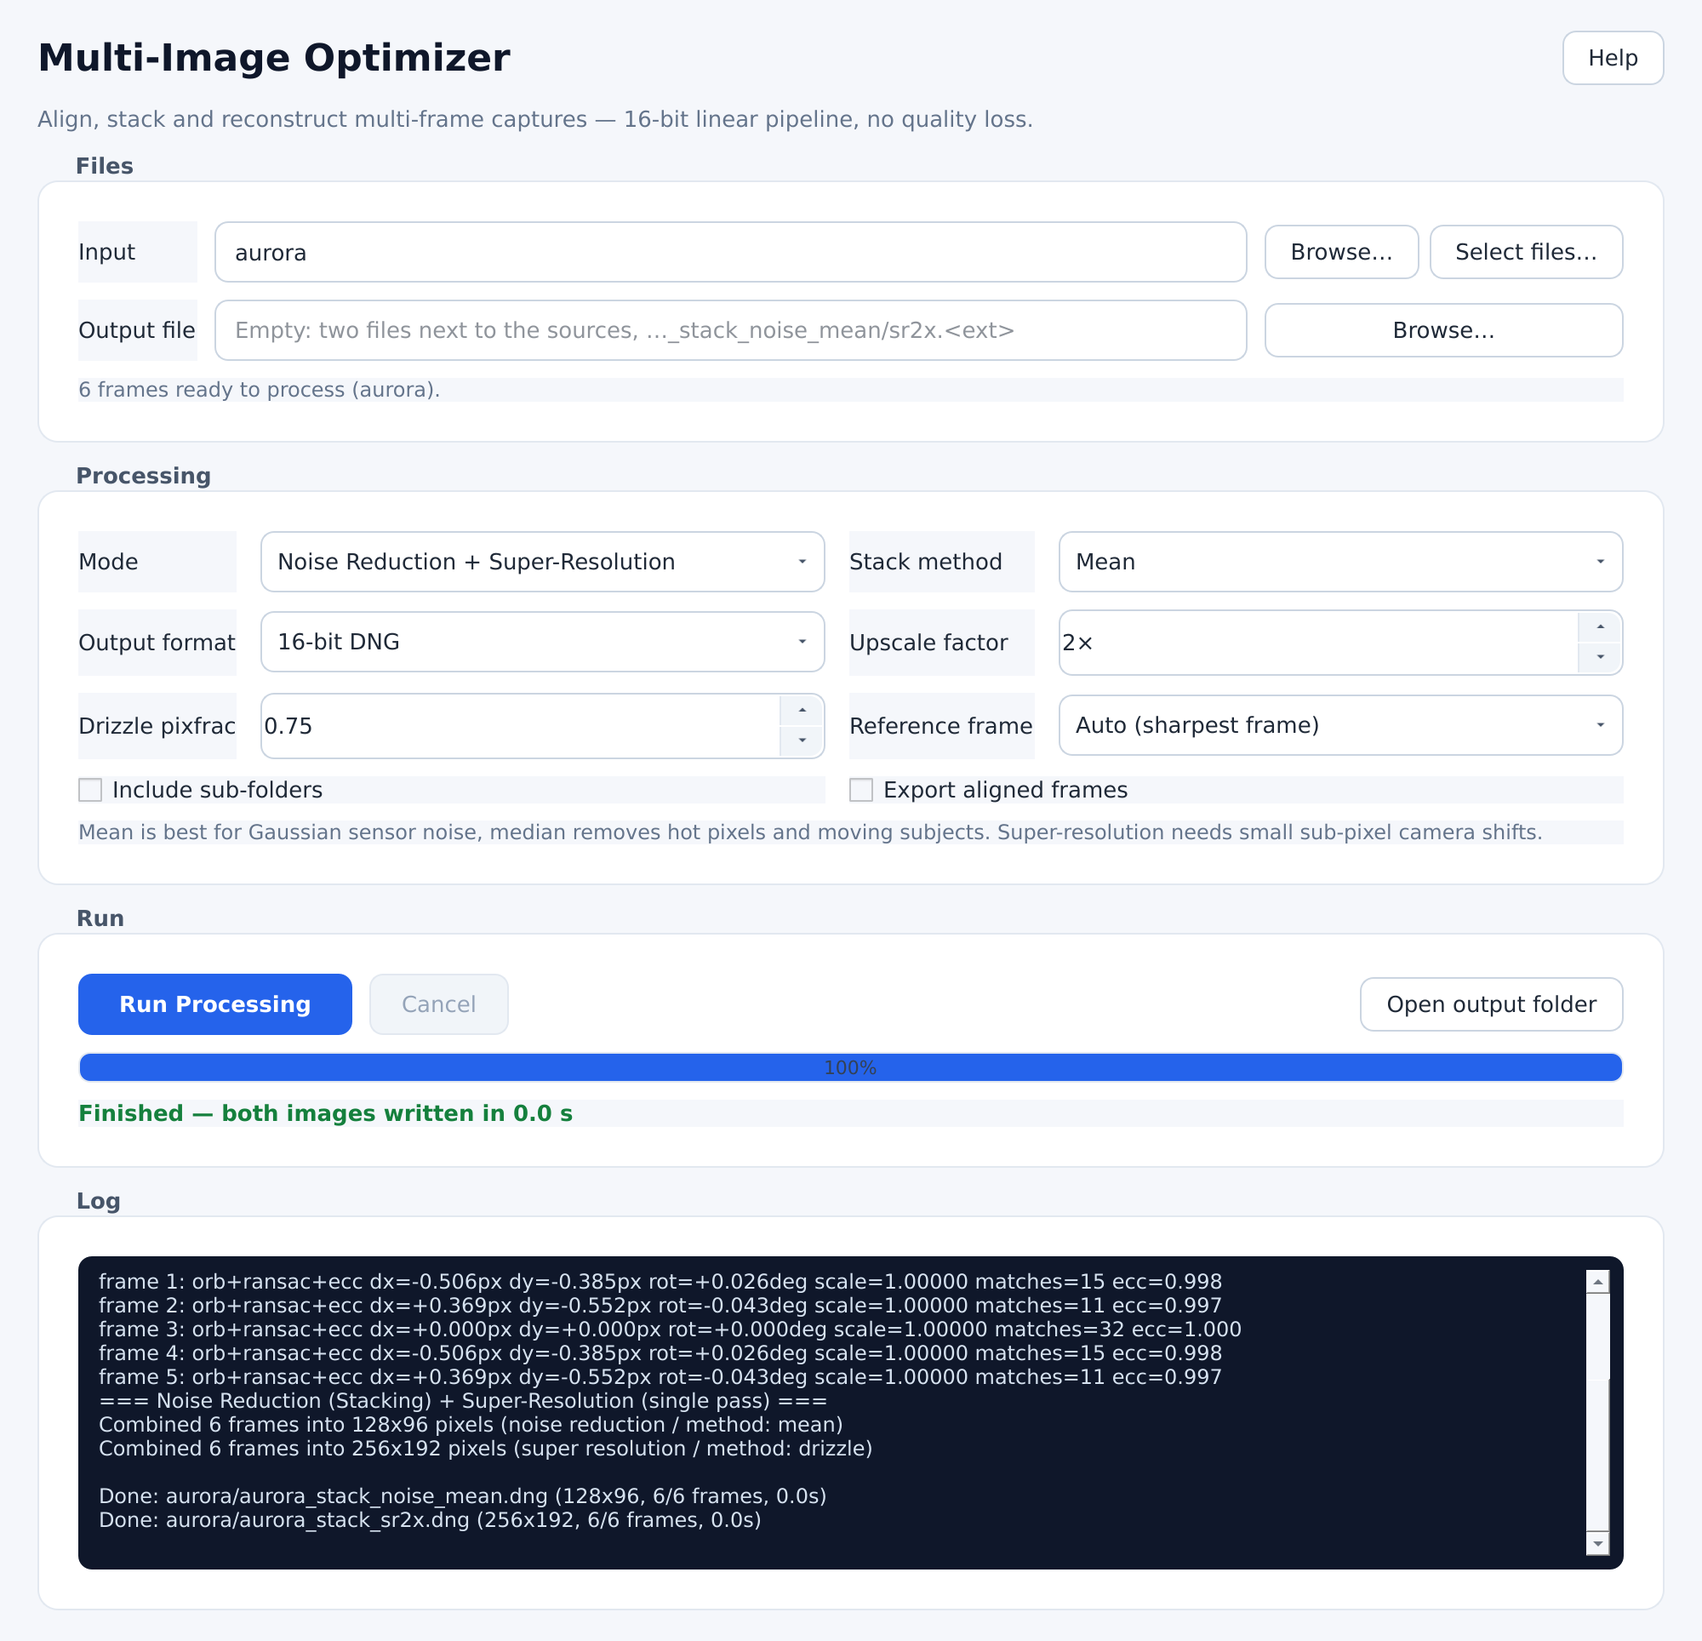
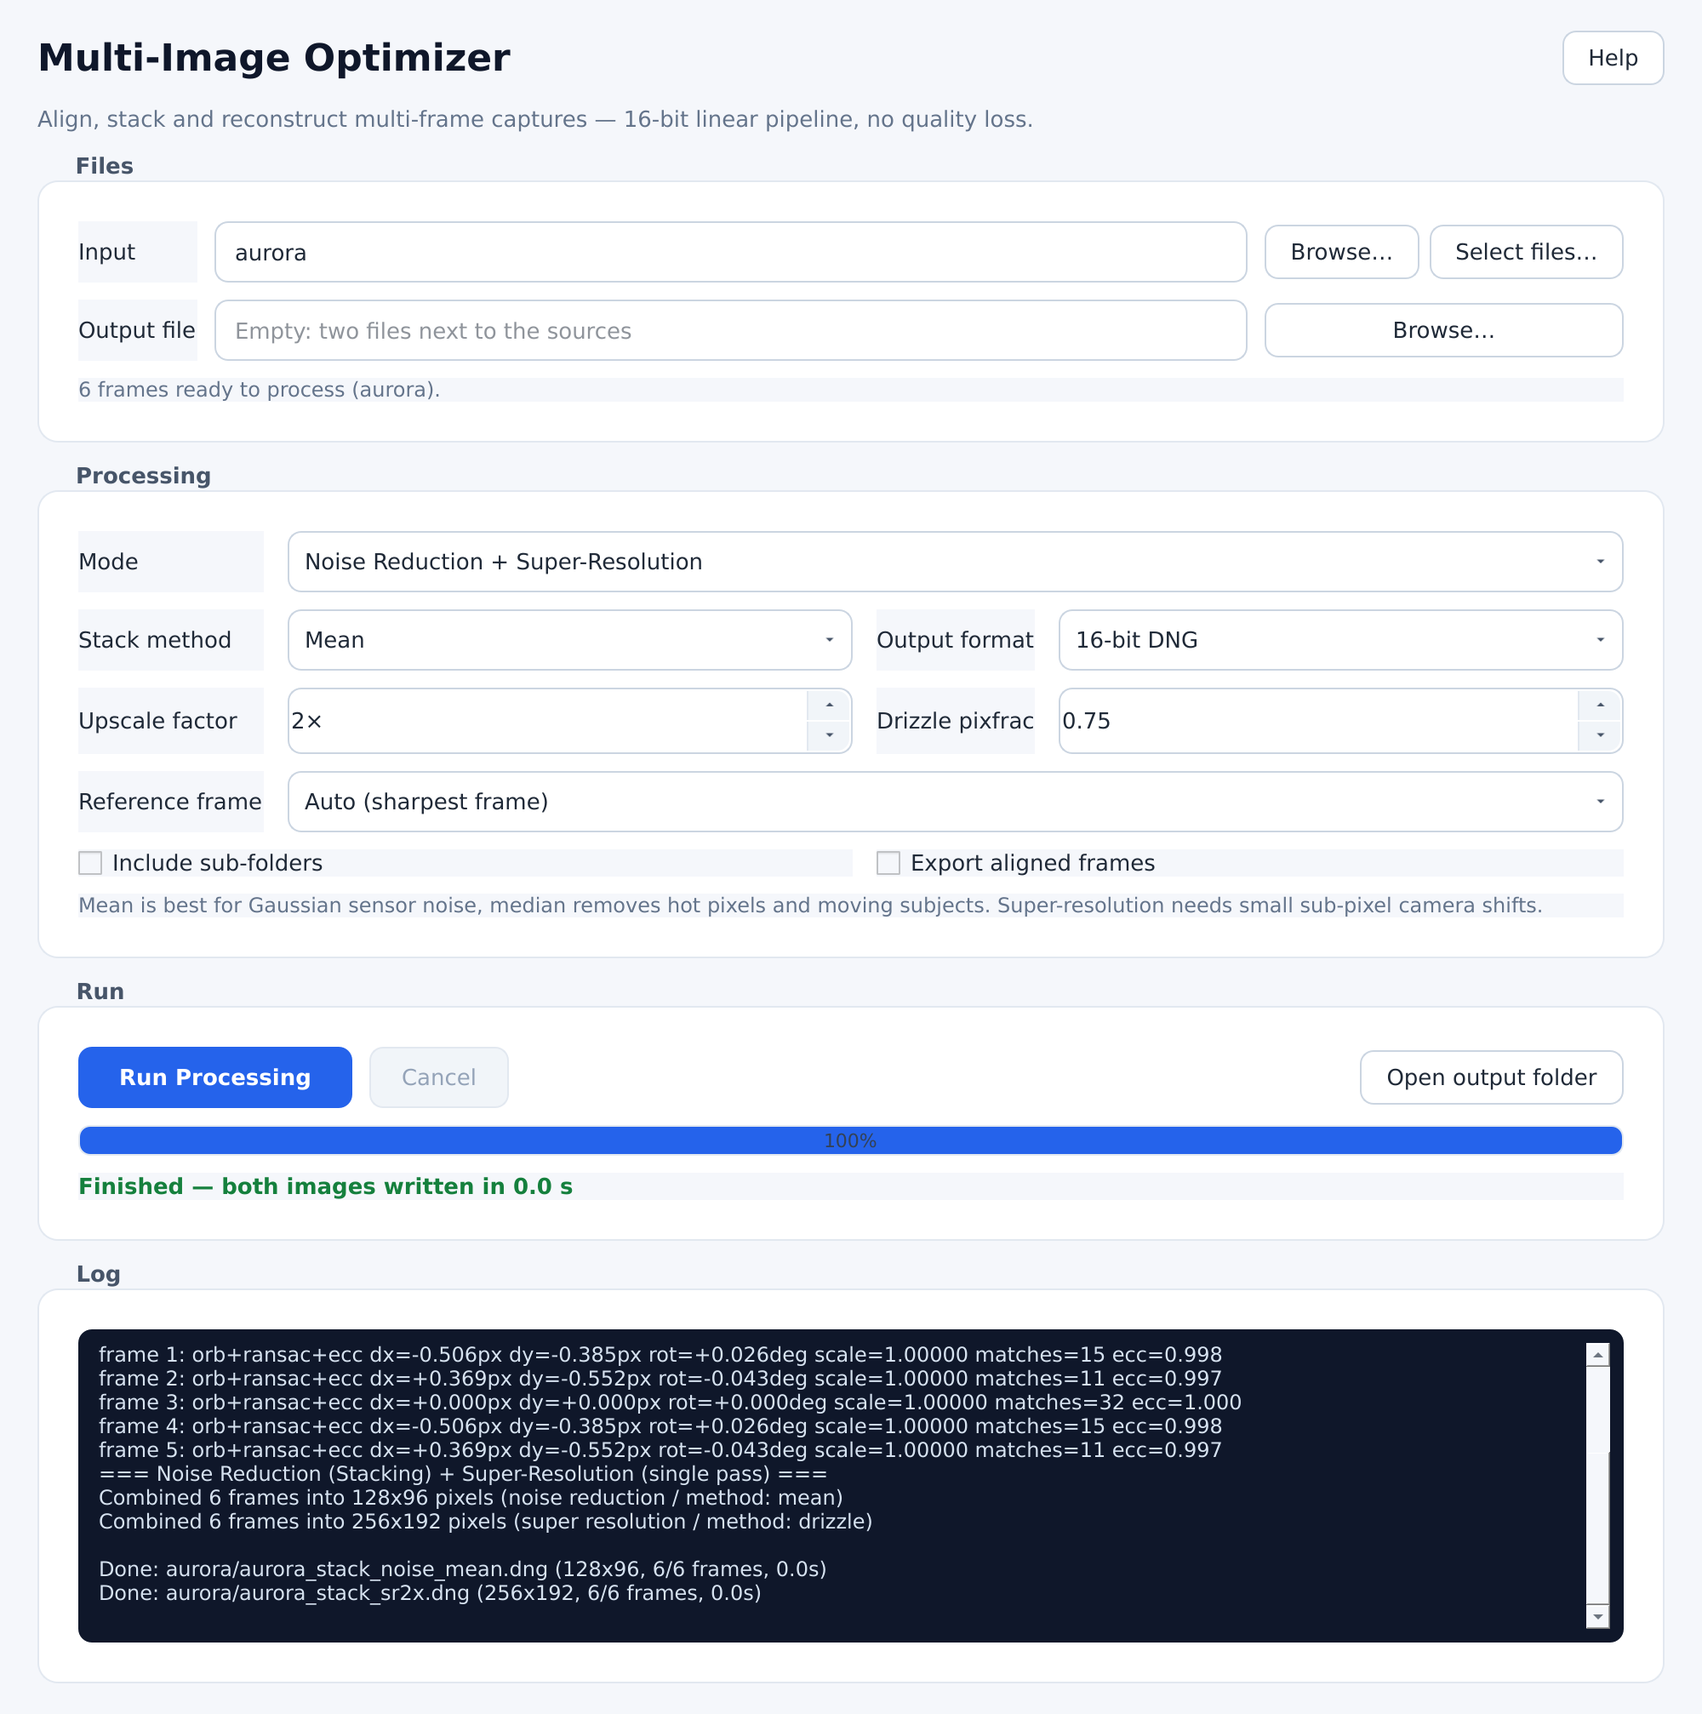
Keep GUI text readable at the minimum window size
Rework the processing grid into two columns with full-width mode and reference
rows, size combo boxes to their contents, and wrap the status and log. Add a
tooltip to every setting explaining its effect and when to use it, and document
the mode and stack-method trade-offs in the README.

diff --git a/src/gui.py b/src/gui.py
@@ -92,6 +92,76 @@ FORMAT_FILTERS = {
     "png": "PNG image (*.png)",
 }
 
+#: Tooltips for the settings.  They explain the effect and when to choose it,
+#: because the labels alone cannot carry the trade-offs.
+INPUT_TIP = (
+    "Folder with the source frames. Supported: DNG, CR2/CR3, NEF, ARW, RAF, "
+    "RW2, ORF, PEF, SRW, TIFF, PNG, JPEG and BMP; mixed folders are fine."
+)
+FILES_TIP = (
+    "Pick individual frames instead of every file in a folder. The selection "
+    "wins over the folder and is what dropping images onto the window produces."
+)
+OUTPUT_TIP = (
+    "Optional explicit output file. Leave empty to write next to the sources as "
+    "<folder>_stack_noise_mean / noise_median / sr2x.<ext>. In Both mode two "
+    "files are written; an explicit path names the stack and adds the SR suffix."
+)
+MODE_TIP = (
+    "<b>Noise Reduction</b> — aligns the frames and combines them at native "
+    "resolution. Removes random sensor noise; use it for any static scene, "
+    "especially a tripod burst.<br><br>"
+    "<b>Super-Resolution</b> — additionally drizzles the aligned frames onto a "
+    "2–6× finer grid. Use it only when the frames contain real sub-pixel shifts "
+    "(handheld burst or sensor shift); identical tripod frames contain no new "
+    "detail.<br><br>"
+    "<b>Both</b> — one registration pass, two outputs: the native-resolution "
+    "stack and the super-resolution frame."
+)
+METHOD_TIP = (
+    "<b>Mean</b> — averages the aligned frames. Best for Gaussian sensor noise, "
+    "lowest noise floor and fastest; use it normally with a decent number of "
+    "frames.<br><br>"
+    "<b>Median</b> — takes the per-pixel median instead. Rejects hot pixels, dust "
+    "and moving objects, but is slightly softer and writes a scratch file per "
+    "frame (slower, more disk). Use it when transients must disappear."
+)
+FORMAT_TIP = (
+    "<b>DNG</b> — 16-bit LinearRaw with the source colour tags; best for raw "
+    "editors. Falls back to TIFF when the sources have no colour matrix."
+    "<br><br><b>TIFF</b> — 16-bit linear sRGB for software that respects linear "
+    "data.<br><br><b>PNG</b> — 16-bit sRGB, best for sharing and viewing."
+)
+UPSCALE_TIP = (
+    "Output grid factor for Super-Resolution (2–6×). 2× is a good default; higher "
+    "factors need real sub-pixel detail and much more memory and time. Ignored "
+    "in Noise Reduction mode."
+)
+PIXFRAC_TIP = (
+    "Drizzle drop size as a fraction of an input pixel (0.05–1.0). Smaller drops "
+    "give sharper results but need more frames and dithering; 0.75 is a safe "
+    "default, try 0.6 for soft results."
+)
+REFERENCE_TIP = (
+    "Frame that every other frame is aligned to. Auto uses the sharpest frame. "
+    "Pick a specific sharp, well-exposed frame if Auto chooses badly; a blurred "
+    "reference softens every result."
+)
+RECURSIVE_TIP = (
+    "Also use frames in sub-folders. output/, _* and *_aligned folders are "
+    "skipped, so previous results never become input."
+)
+ALIGNED_TIP = (
+    "Also write every registered frame to <output>_aligned/ for inspection. "
+    "One full-size file per frame; flick through them to check the alignment."
+)
+RUN_TIP = (
+    "Start processing with these settings. The button is disabled while a run "
+    "is active so the same frames cannot be started twice."
+)
+CANCEL_TIP = "Stop after the current frame; results already written are kept."
+OPEN_TIP = "Open the folder containing the last written image."
+
 _ARROW_PATHS: dict = {}
 _ARROW_DIR: Optional[QTemporaryDir] = None
 
@@ -576,27 +646,33 @@ class MainWindow(QMainWindow):
 
         self.input_edit = QLineEdit()
         self.input_edit.setPlaceholderText("Folder with the DNG / TIFF / PNG / JPEG frames…")
+        self.input_edit.setToolTip(INPUT_TIP)
         self.input_edit.textChanged.connect(self._on_input_changed)
         self.input_edit.textEdited.connect(self._on_input_typed)
         input_button = QPushButton("Browse…")
         input_button.setToolTip("Use every supported frame inside a folder")
         input_button.clicked.connect(self._browse_input)
         self.files_button = QPushButton("Select files…")
-        self.files_button.setToolTip(
-            "Pick individual frames, e.g. a burst spread over several folders"
-        )
+        self.files_button.setToolTip(FILES_TIP)
         self.files_button.clicked.connect(self._browse_files)
 
         self.output_edit = QLineEdit()
+        self.output_edit.setToolTip(OUTPUT_TIP)
         self.output_edit.textEdited.connect(self._on_output_edited)
         output_button = QPushButton("Browse…")
+        output_button.setToolTip("Choose an explicit output file instead of the default name.")
         output_button.clicked.connect(self._browse_output)
 
         self.frames_label = QLabel("No folder or files selected")
         self.frames_label.setObjectName("hint")
         self.frames_label.setWordWrap(True)
+        self.frames_label.setToolTip(
+            "How many supported frames were found in the selected folder or file list."
+        )
 
-        layout.addWidget(QLabel("Input"), 0, 0)
+        input_label = QLabel("Input")
+        input_label.setToolTip(INPUT_TIP)
+        layout.addWidget(input_label, 0, 0)
         layout.addWidget(self.input_edit, 0, 1)
         buttons = QHBoxLayout()
         buttons.setContentsMargins(0, 0, 0, 0)
@@ -604,7 +680,9 @@ class MainWindow(QMainWindow):
         buttons.addWidget(input_button)
         buttons.addWidget(self.files_button)
         layout.addLayout(buttons, 0, 2)
-        layout.addWidget(QLabel("Output file"), 1, 0)
+        output_label = QLabel("Output file")
+        output_label.setToolTip(OUTPUT_TIP)
+        layout.addWidget(output_label, 1, 0)
         layout.addWidget(self.output_edit, 1, 1)
         layout.addWidget(output_button, 1, 2)
         layout.addWidget(self.frames_label, 2, 0, 1, 3)
@@ -620,53 +698,77 @@ class MainWindow(QMainWindow):
         self.mode_combo = QComboBox()
         for mode in MODES:
             self.mode_combo.addItem(MODE_LABELS[mode], mode)
+        self.mode_combo.setSizeAdjustPolicy(QComboBox.SizeAdjustPolicy.AdjustToContents)
+        self.mode_combo.setToolTip(MODE_TIP)
         self.mode_combo.currentIndexChanged.connect(self._on_mode_changed)
 
         self.method_combo = QComboBox()
         for method in ("mean", "median"):
             self.method_combo.addItem(METHOD_LABELS[method], method)
+        self.method_combo.setSizeAdjustPolicy(
+            QComboBox.SizeAdjustPolicy.AdjustToContents
+        )
+        self.method_combo.setToolTip(METHOD_TIP)
 
         self.format_combo = QComboBox()
         self.format_combo.addItem("16-bit DNG", "dng")
         self.format_combo.addItem("16-bit TIFF (linear)", "tiff")
         self.format_combo.addItem("16-bit PNG (sRGB)", "png")
+        self.format_combo.setSizeAdjustPolicy(
+            QComboBox.SizeAdjustPolicy.AdjustToContents
+        )
+        self.format_combo.setToolTip(FORMAT_TIP)
         self.format_combo.currentIndexChanged.connect(self._on_format_changed)
 
         self.upscale_spin = QSpinBox()
         self.upscale_spin.setRange(2, 6)
         self.upscale_spin.setValue(2)
         self.upscale_spin.setSuffix("×")
+        self.upscale_spin.setToolTip(UPSCALE_TIP)
 
         self.pixfrac_spin = QDoubleSpinBox()
         self.pixfrac_spin.setRange(0.05, 1.0)
         self.pixfrac_spin.setSingleStep(0.05)
         self.pixfrac_spin.setDecimals(2)
         self.pixfrac_spin.setValue(0.75)
+        self.pixfrac_spin.setToolTip(PIXFRAC_TIP)
 
         self.reference_combo = QComboBox()
         self.reference_combo.addItem("Auto (sharpest frame)", None)
+        self.reference_combo.setSizeAdjustPolicy(
+            QComboBox.SizeAdjustPolicy.AdjustToMinimumContentsLengthWithIcon
+        )
+        self.reference_combo.setMinimumContentsLength(28)
+        self.reference_combo.setToolTip(REFERENCE_TIP)
 
         self.recursive_check = QCheckBox("Include sub-folders")
+        self.recursive_check.setToolTip(RECURSIVE_TIP)
         self.aligned_check = QCheckBox("Export aligned frames")
-        self.aligned_check.setToolTip(
-            "Write every registered frame to <output>_aligned/ so the alignment "
-            "can be checked frame by frame."
-        )
+        self.aligned_check.setToolTip(ALIGNED_TIP)
 
-        layout.addWidget(QLabel("Mode"), 0, 0)
-        layout.addWidget(self.mode_combo, 0, 1)
-        layout.addWidget(QLabel("Stack method"), 0, 2)
-        layout.addWidget(self.method_combo, 0, 3)
-        layout.addWidget(QLabel("Output format"), 1, 0)
-        layout.addWidget(self.format_combo, 1, 1)
-        layout.addWidget(QLabel("Upscale factor"), 1, 2)
-        layout.addWidget(self.upscale_spin, 1, 3)
-        layout.addWidget(QLabel("Drizzle pixfrac"), 2, 0)
-        layout.addWidget(self.pixfrac_spin, 2, 1)
-        layout.addWidget(QLabel("Reference frame"), 2, 2)
-        layout.addWidget(self.reference_combo, 2, 3)
-        layout.addWidget(self.recursive_check, 3, 0, 1, 2)
-        layout.addWidget(self.aligned_check, 3, 2, 1, 2)
+        def setting_label(text: str, tip: str) -> QLabel:
+            """A label that keeps the explanation available when the field is disabled."""
+            label = QLabel(text)
+            label.setToolTip(tip)
+            return label
+
+        # Mode and reference frame span the panel: their values are the longest.
+        # The remaining settings sit in two label/field pairs, which still fits
+        # the 720 px minimum window without eliding any text.
+        layout.addWidget(setting_label("Mode", MODE_TIP), 0, 0)
+        layout.addWidget(self.mode_combo, 0, 1, 1, 3)
+        layout.addWidget(setting_label("Stack method", METHOD_TIP), 1, 0)
+        layout.addWidget(self.method_combo, 1, 1)
+        layout.addWidget(setting_label("Output format", FORMAT_TIP), 1, 2)
+        layout.addWidget(self.format_combo, 1, 3)
+        layout.addWidget(setting_label("Upscale factor", UPSCALE_TIP), 2, 0)
+        layout.addWidget(self.upscale_spin, 2, 1)
+        layout.addWidget(setting_label("Drizzle pixfrac", PIXFRAC_TIP), 2, 2)
+        layout.addWidget(self.pixfrac_spin, 2, 3)
+        layout.addWidget(setting_label("Reference frame", REFERENCE_TIP), 3, 0)
+        layout.addWidget(self.reference_combo, 3, 1, 1, 3)
+        layout.addWidget(self.recursive_check, 4, 0, 1, 2)
+        layout.addWidget(self.aligned_check, 4, 2, 1, 2)
 
         hint = QLabel(
             "Mean is best for Gaussian sensor noise, median removes hot pixels and "
@@ -674,7 +776,7 @@ class MainWindow(QMainWindow):
         )
         hint.setObjectName("hint")
         hint.setWordWrap(True)
-        layout.addWidget(hint, 4, 0, 1, 4)
+        layout.addWidget(hint, 5, 0, 1, 4)
         layout.setColumnStretch(1, 1)
         layout.setColumnStretch(3, 1)
         return group
@@ -687,15 +789,18 @@ class MainWindow(QMainWindow):
         row = QHBoxLayout()
         self.run_button = QPushButton("Run Processing")
         self.run_button.setObjectName("runButton")
+        self.run_button.setToolTip(RUN_TIP)
         self.run_button.clicked.connect(self._start_processing)
 
         self.cancel_button = QPushButton("Cancel")
         self.cancel_button.setObjectName("cancelButton")
         self.cancel_button.setEnabled(False)
+        self.cancel_button.setToolTip(CANCEL_TIP)
         self.cancel_button.clicked.connect(self._cancel_processing)
 
         self.open_button = QPushButton("Open output folder")
         self.open_button.setEnabled(False)
+        self.open_button.setToolTip(OPEN_TIP)
         self.open_button.clicked.connect(self._open_output_folder)
 
         row.addWidget(self.run_button)
@@ -708,10 +813,13 @@ class MainWindow(QMainWindow):
         self.progress_bar.setRange(0, 100)
         self.progress_bar.setValue(0)
         self.progress_bar.setFormat("%p%")
+        self.progress_bar.setToolTip("Progress of the current run.")
         layout.addWidget(self.progress_bar)
 
         self.status_label = QLabel("Idle")
         self.status_label.setObjectName("status")
+        self.status_label.setWordWrap(True)
+        self.status_label.setToolTip("Current activity, result or error of the last run.")
         self._status_state = ""
         layout.addWidget(self.status_label)
         return group
@@ -721,6 +829,7 @@ class MainWindow(QMainWindow):
         layout = QVBoxLayout(group)
         self.log_view = QPlainTextEdit()
         self.log_view.setReadOnly(True)
+        self.log_view.setLineWrapMode(QPlainTextEdit.LineWrapMode.WidgetWidth)
         self.log_view.setMaximumBlockCount(4000)
         self.log_view.setFont(QFont("Cascadia Mono", 9))
         # The log should soak up leftover height instead of inflating the
@@ -728,6 +837,10 @@ class MainWindow(QMainWindow):
         self.log_view.setMinimumHeight(130)
         self.log_view.setSizePolicy(
             QSizePolicy.Policy.Expanding, QSizePolicy.Policy.Ignored
+        )
+        self.log_view.setToolTip(
+            "Alignment, progress and result log. Long lines wrap; the newest "
+            "lines are shown at the bottom."
         )
         layout.addWidget(self.log_view)
         return group
@@ -844,13 +957,9 @@ class MainWindow(QMainWindow):
         if self.mode_combo.currentData() == "both":
             # Two files are produced, so a single suggested name would mislead.
             self.output_edit.clear()
-            self.output_edit.setPlaceholderText(
-                "Empty: two files next to the sources, …_stack_noise_mean/sr2x.<ext>"
-            )
+            self.output_edit.setPlaceholderText("Empty: two files next to the sources")
             return
-        self.output_edit.setPlaceholderText(
-            "Empty: <input>/<folder>_stack_<method>.<ext>"
-        )
+        self.output_edit.setPlaceholderText("Empty: automatic name next to the sources")
         if self.input_edit.text().strip():
             self.output_edit.setText(str(self._suggested_output()))
         else:
@@ -894,6 +1003,9 @@ class MainWindow(QMainWindow):
         self.reference_combo.blockSignals(True)
         self.reference_combo.clear()
         self.reference_combo.addItem("Auto (sharpest frame)", None)
+        self.reference_combo.setItemData(
+            0, REFERENCE_TIP, Qt.ItemDataRole.ToolTipRole
+        )
 
         try:
             frames = self._frames_in_scope()
@@ -903,6 +1015,11 @@ class MainWindow(QMainWindow):
 
         for index, frame in enumerate(frames):
             self.reference_combo.addItem(f"{index + 1}. {frame.name}", index)
+            self.reference_combo.setItemData(
+                index + 1,
+                f"{frame.name}\nUse this frame as the alignment reference.",
+                Qt.ItemDataRole.ToolTipRole,
+            )
         self.reference_combo.blockSignals(False)
 
         if self._selected_files:

diff --git a/README.md b/README.md
@@ -122,6 +122,27 @@ mode writes two files that cannot be confused. Files with that `_stack_` marker
 are never read back as input, so a folder can be processed repeatedly without
 stacking an earlier result.
 
+### Choosing a mode and stack method
+
+| Mode | Produces | Use when |
+| --- | --- | --- |
+| **Noise Reduction** | Native-resolution mean or median stack. | You want cleaner frames without changing the pixel count. Works with any overlapping burst; a tripod is ideal. |
+| **Super-Resolution** | A 2–6× drizzle frame on a finer grid. | The frames contain real sub-pixel shifts (handheld burst or sensor shift). Identical tripod frames contain no new detail. |
+| **Both** | The native stack and the super-resolution frame in one registration pass. | You want both results and do not want to decode and align the frames twice. |
+
+**Mean** is the default: it averages the aligned frames, gives the lowest
+noise floor for Gaussian sensor noise and is the fastest option. **Median**
+takes the per-pixel median instead; it rejects hot pixels, dust and moving
+objects, at the cost of a little sharpness and a scratch file per frame
+(slower, more disk). Use median when transient objects must disappear.
+
+Every field also explains itself on hover. For the other settings: **Output
+format** is DNG for raw editors, TIFF for a linear workflow and PNG for
+sharing; **Upscale factor** is the 2–6× drizzle grid (2× is a good default);
+**Drizzle pixfrac** is the drop size (0.75 default, lower is sharper but needs
+more frames); **Reference frame** is what all frames align to (Auto picks the
+sharpest).
+
 ### Drag & drop
 
 Drop a folder — or a multi-selection of image files — onto
